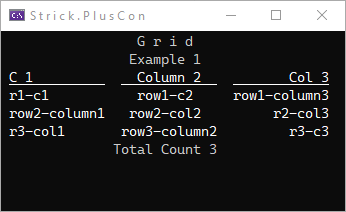
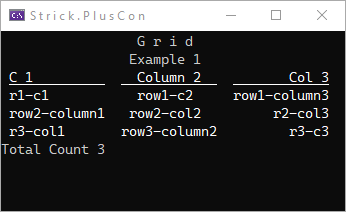
Grid - title, subtitle, footer horizontal alignment

diff --git a/Strick.PlusCon/Models/Grid.cs b/Strick.PlusCon/Models/Grid.cs
@@ -101,12 +101,26 @@ public class Grid
 	#region CHROME
 
 	/// <summary>
-	/// The title of the grid. Centered above the grid rows/columns.
-	/// If a single character string is specified (e.g. "-"), that character will be repeated for the width of the grid. 
-	/// <para>Note: if the Title is wider than the width of all the grid's columns, 
-	/// it will start at the left edge of the grid and flow past the right edge.</para>
+	/// The title of the grid. Shows at the top of the grid -- above the rows/columns. 
+	/// Horizontal alignment of the title's content can be controlled using the <see cref="TitleAlignment"/> property.
+	/// <div id='desc'>
+	/// If null, the line will not be shown. 
+	/// If a single character string is specified (e.g. "-") for the <see cref="StyledText.Text"/> property, 
+	/// that character will be repeated for the width of the grid. 
+	/// To show a blank line, use a single space as the content.
+	/// <para>
+	/// Note: if the content is wider than the width of all the grid's columns, 
+	/// it will start at the left edge of the grid and flow past the right edge, 
+	/// regardless of the horizontal alignment setting.
+	/// </para>
+	/// </div>
 	/// </summary>
 	public StyledText? Title { get; set; }
+
+	/// <summary>
+	/// The horizontal alignment for the grid's <see cref="Title"/>.
+	/// </summary>
+	public HorizontalAlignment TitleAlignment { get; set; } = HorizontalAlignment.Center;
 
 	/// <summary>
 	/// The length of the <see cref="Title"/> property. If <see cref="Title"/> is null or empty, 0 is returned. 
@@ -114,12 +128,16 @@ public class Grid
 	public int TitleLength => Title == null ? 0 : Title.Text.Length;
 
 	/// <summary>
-	/// The subtitle of the grid. Centered at the top of the grid, beneath the <see cref="Title"/> above the grid rows/columns.
-	/// If a single character string is specified (e.g. "-"), that character will be repeated for the width of the grid.
-	/// <para>Note: if the Subtitle is wider than the width of all the grid's columns, 
-	/// it will start at the left edge of the grid and flow past the right edge.</para>
+	/// The subtitle of the grid. Shown at the top of the grid, beneath the <see cref="Title"/>, above the rows/columns.
+	/// Horizontal alignment of the subtitle's content can be controlled using the <see cref="SubtitleAlignment"/> property.
+	/// <inheritdoc cref="Title" path="/summary/div[@id='desc']"/>
 	/// </summary>
 	public StyledText? Subtitle { get; set; }
+
+	/// <summary>
+	/// The horizontal alignment for the grid's <see cref="Subtitle"/>.
+	/// </summary>
+	public HorizontalAlignment SubtitleAlignment { get; set; } = HorizontalAlignment.Center;
 
 	/// <summary>
 	/// The length of the <see cref="Subtitle"/> property. If <see cref="Subtitle"/> is null or empty, 0 is returned. 
@@ -127,12 +145,16 @@ public class Grid
 	public int SubTitleLength => Subtitle == null ? 0 : Subtitle.Text.Length;
 
 	/// <summary>
-	/// The footer of the grid. Centered at the bottom of the grid, beneath the the grid rows/columns.
-	/// If a single character string is specified (e.g. "-"), that character will be repeated for the width of the grid.
-	/// <para>Note: if the Footer is wider than the width of all the grid's columns, 
-	/// it will start at the left edge of the grid and flow past the right edge.</para>
+	/// The footer of the grid. Shown at the bottom of the grid, beneath the the rows/columns.
+	/// Horizontal alignment of the footer's content can be controlled using the <see cref="FooterAlignment"/> property.
+	/// <inheritdoc cref="Title" path="/summary/div[@id='desc']"/>
 	/// </summary>
 	public StyledText? Footer { get; set; }
+
+	/// <summary>
+	/// The horizontal alignment for the grid's <see cref="Footer"/>.
+	/// </summary>
+	public HorizontalAlignment FooterAlignment { get; set; } = HorizontalAlignment.Center;
 
 	/// <summary>
 	/// The length of the <see cref="Footer"/> property. If <see cref="Footer"/> is null or empty, 0 is returned. 
@@ -211,12 +233,12 @@ public class Grid
 		//TITLES
 		if (Title != null)
 		{
-			ShowTitle(Title);
+			ShowTitle(Title, TitleAlignment);
 			MoveToStartOfNextRow(col);
 		}
 		if (Subtitle != null)
 		{
-			ShowTitle(Subtitle);
+			ShowTitle(Subtitle, SubtitleAlignment);
 			MoveToStartOfNextRow(col);
 		}
 
@@ -261,20 +283,29 @@ public class Grid
 		//FOOTER
 		if (Footer != null)
 		{
-			ShowTitle(Footer);
+			ShowTitle(Footer, FooterAlignment);
 			MoveToStartOfNextRow(col);
 		}
 	}
 
-	private void ShowTitle(StyledText? title)
+	private void ShowTitle(StyledText? title, HorizontalAlignment alignment)
 	{
 		if (title == null)
 		{ return; }
 
+		W(RenderTitle(title, alignment));
+	}
+
+	internal string RenderTitle(StyledText title, HorizontalAlignment alignment)
+	{
 		if (title.Text.Length == 1)
-		{ W(title.StyleText(new string(title.Text[0], Width))); }
-		else
-		{ W(title.StyleText(title.Text.Center(Width))); }
+		{ return title.StyleText(new string(title.Text[0], Width)); }
+		else if (title.Text.Length > Width || alignment == HorizontalAlignment.Left)
+		{ return title.StyleText(title.Text.PadRight(Width)); }
+		else if (alignment == HorizontalAlignment.Center)
+		{ return title.StyleText(title.Text.Center(Width)); }
+		else //if (alignment == HorizontalAlignment.Right)
+		{ return title.StyleText(title.Text.PadLeft(Width)); }
 	}
 
 

diff --git a/Strick.PlusCon.Test/GridTests.cs b/Strick.PlusCon.Test/GridTests.cs
@@ -398,8 +398,8 @@ public class GridTests
 	public void ShowColumnHeaders()
 	{
 		Grid g = new Grid();
-		g.ColumnHeaderContentStyle=new TextStyle();
-		g.ColumnHeaderCellStyle=new TextStyle();
+		g.ColumnHeaderContentStyle = new TextStyle();
+		g.ColumnHeaderCellStyle = new TextStyle();
 		var col1 = g.Columns.Add("foo");
 		col1.CellLayout.MarginLeft = 0;
 		col1.CellLayout.MarginRight = 0;
@@ -428,6 +428,42 @@ public class GridTests
 		CheckColumnState(col2, 1, "bar", 2, 2, 2);
 		CheckColHead(col3, 2, "longer", g.ColumnHeaderCellStyle, g.ColumnHeaderContentStyle, col1.CellLayout, "");
 		CheckColumnState(col3, 2, "longer", 2, 2, 2);
+	}
+
+	[TestMethod]
+	public void Chrome()
+	{
+		Grid g = new();
+		g.ColumnHeaderCellStyle = new TextStyle();
+		g.ColumnHeaderContentStyle = new TextStyle();
+		g.Columns.Add("1234567");
+		g.Columns[0].CellLayout.MarginLeft = 0;
+		g.Columns[0].CellLayout.MarginRight = 0;
+		g.AddRow("");
+
+		g.Title = new("foo");
+		CheckTitleRendering(g, g.Title, "foo    ", "  foo  ", "    foo");
+		g.Title.Text = "foobar";
+		CheckTitleRendering(g, g.Title, "foobar ", "foobar ", " foobar");
+		g.Title.Text = "foo bar";
+		CheckTitleRendering(g, g.Title, "foo bar", "foo bar", "foo bar");
+		g.Title.Text = "foo bar baz";
+		CheckTitleRendering(g, g.Title, "foo bar baz", "foo bar baz", "foo bar baz");
+		g.Title.Text = "-";
+		string tfill = "-------";
+		CheckTitleRendering(g, g.Title, tfill, tfill, tfill);
+
+		g.Title.Text = "foo";
+		g.Title.Style.ForeColor = Expectations.red;
+		CheckTitleRendering(g, g.Title, "foo    ", "  foo  ", "    foo", Expectations.ForeColorRed, Expectations.ForeColorReset);
+		g.Title.Text = "foobar";
+		CheckTitleRendering(g, g.Title, "foobar ", "foobar ", " foobar", Expectations.ForeColorRed, Expectations.ForeColorReset);
+		g.Title.Text = "foo bar";
+		CheckTitleRendering(g, g.Title, "foo bar", "foo bar", "foo bar", Expectations.ForeColorRed, Expectations.ForeColorReset);
+		g.Title.Text = "foo bar baz";
+		CheckTitleRendering(g, g.Title, "foo bar baz", "foo bar baz", "foo bar baz", Expectations.ForeColorRed, Expectations.ForeColorReset);
+		g.Title.Text = "-";
+		CheckTitleRendering(g, g.Title, tfill, tfill, tfill, Expectations.ForeColorRed, Expectations.ForeColorReset);
 	}
 
 
@@ -542,5 +578,12 @@ public class GridTests
 			Assert.AreEqual(expectedLayout.PaddingRight, actualLayout.PaddingRight);
 			Assert.AreEqual(expectedLayout.PaddingRightChar, actualLayout.PaddingRightChar);
 		}
+	}
+
+	internal static void CheckTitleRendering(Grid g, StyledText title, string expectedLeft, string expectedCenter, string expectedRight, string pre = "", string post = "")
+	{
+		Assert.AreEqual(pre + expectedLeft + post, g.RenderTitle(title, HorizontalAlignment.Left));
+		Assert.AreEqual(pre + expectedCenter + post, g.RenderTitle(title, HorizontalAlignment.Center));
+		Assert.AreEqual(pre + expectedRight + post, g.RenderTitle(title, HorizontalAlignment.Right));
 	}
 }

diff --git a/Strick.PlusCon.Test/Program.cs b/Strick.PlusCon.Test/Program.cs
@@ -57,6 +57,7 @@ internal class Program
 
 		Menu gridMenu = new PCMenu("Grid Menu");
 		gridMenu.Options.Add(new("Show test grid", 'G', GridTest));
+		gridMenu.Options.Add(new("Show test grid 2", '2', GridTest2));
 
 		Menu mainMenu = new PCMenu("Main Menu");
 
@@ -577,7 +578,14 @@ internal class Program
 	{
 		Grid g = new();
 		g.Title = new("A Sample Grid", Color.White, Color.Turquoise);
+		g.TitleAlignment = HorizontalAlignment.Left;
 		g.Subtitle = new("this one has a really super long sub-title. It's wider than the whole grid.");
+		g.Subtitle.Text = "foo bar baz woo koo boo zoo";
+		g.Subtitle.Style.ForeColor = Color.White;
+		g.Subtitle.Style.BackColor = Color.Pink;
+		g.Subtitle.Style.SetGradientColors(Color.Pink, Color.White, Color.Pink);
+		g.Subtitle.Style.Reverse = true;
+		//g.SubtitleAlignment = HorizontalAlignment.Left;
 		g.CellStyle.BackColor = Color.FromArgb(48, 48, 48);
 		g.CellContentStyle = g.CellStyle;
 		//g.CellContentStyle.BackColor = Color.FromArgb(48, 48, 48);
@@ -643,6 +651,7 @@ internal class Program
 		g.AddRow("r6-c1", DateTime.Now, 1);
 
 		g.Footer = new($"A total of {g.RowCount} fun items", Color.White, Color.Purple);
+		g.FooterAlignment = HorizontalAlignment.Right;
 
 		GridColumn gc = g.Columns.Add("foo bar");
 		g.ColumnHeaderContentStyle.SetGradientColors(Color.Red, Color.Pink);
@@ -659,6 +668,50 @@ internal class Program
 		g.Show();
 		RK();
 	}
+
+	private static void GridTest2()
+	{
+		Grid g = new();
+		g.ColumnHeaderCellStyle = new();
+		g.ColumnHeaderContentStyle = new();
+
+		g.Columns.Add("1234567");
+		g.Columns[0].CellLayout.MarginLeft = 0;
+		g.Columns[0].CellLayout.MarginRight = 0;
+		g.AddRow("*--*--*");
+		CLS();
+		g.Show();
+		RK();
+
+		g.Title = new("foo");
+		g.Subtitle = new("bar");
+		g.Footer = new("baz");
+		CLS();
+		g.Show();
+		RK();
+
+		g.TitleAlignment = HorizontalAlignment.Left;
+		g.SubtitleAlignment = HorizontalAlignment.Left;
+		g.FooterAlignment = HorizontalAlignment.Left;
+		CLS();
+		g.Show();
+		RK();
+
+		g.TitleAlignment = HorizontalAlignment.Center;
+		g.SubtitleAlignment = HorizontalAlignment.Center;
+		g.FooterAlignment = HorizontalAlignment.Center;
+		CLS();
+		g.Show();
+		RK();
+
+		g.TitleAlignment = HorizontalAlignment.Right;
+		g.SubtitleAlignment = HorizontalAlignment.Right;
+		g.FooterAlignment = HorizontalAlignment.Right;
+		CLS();
+		g.Show();
+		RK();
+	}
+
 
 	class SpecialChar
 	{

diff --git a/Strick.PlusCon.Test/Models/Examples/GridExamples.cs b/Strick.PlusCon.Test/Models/Examples/GridExamples.cs
@@ -40,6 +40,7 @@ internal static class GridExamples
 		g.AddRow("r3-col1", "row3-column2", "r3-c3");
 
 		g.Footer = new($"Total Count {g.RowCount}");
+		g.FooterAlignment = HorizontalAlignment.Left;
 		g.Show();
 		RK();
 	}
@@ -77,7 +78,8 @@ internal static class GridExamples
 
 		g.AddRow("r3-col1", "row3-col2", "r3-c3");
 
-		g.Footer = new("Total Count 3");
+		g.Footer = new("Total Count 3", Color.White, Color.SkyBlue, Color.White);
+		g.Footer.Style.Reverse = true;
 		g.Show();
 		RK();
 	}

diff --git a/docs/grid.md b/docs/grid.md
@@ -4,7 +4,7 @@
 A `Grid` consists of rows and columns of data that is displayed in a tabular format. 
 Each Column is sized automatically to fit its widest content. 
 In addition to the rows and columns, grids can also have a `Title`, `Subtitle` and `Footer`. 
-The titles are centered above the rows/columns, the footer is centered beneath the rows/columns. 
+The titles are shown above the rows/columns, the footer is beneath beneath the rows/columns. 
 
 The appearance and layout of the grid's columns, rows, and cells can be customized through the 
 use of properties available at the various levels. 
@@ -23,7 +23,9 @@ controlled via the `ShowColumnHeaders` property.
 
 The `Title`, `Subtitle` and `Footer` properties are `StyledText` objects. 
 See the [doc for the `TextStyle` and `StyledText` classes](textStyle.md#styledtext-class)
-for information on how to apply styling to these grid elements.
+for information on how to apply styling to these grid elements. Additionally, there are 
+alignment properties for each (`TitleAlignment`, `SubtitleAlignment`, `FooterAlignment`) 
+that control the horizontal alignment of the content.
 
 *Note: Calling the `Show` method if the grid does not have at least one column and one row will 
 result in an exception being thrown. After all, it is somewhat pointless to display a grid 
@@ -171,7 +173,9 @@ g.AddRow("row2-column1", "row2-col2", "r2-col3");
 g.AddRow("r3-col1", "row3-column2", "r3-c3");
 
 g.Footer = new($"Total Count {g.RowCount}");
+g.FooterAlignment = HorizontalAlignment.Left;
 g.Show();
+RK();
 ```
 ![Example - Grid 1](https://raw.githubusercontent.com/StrickTechnologies/Strick.PlusCon/master/SampleImages/ex_grid_1.png)
 
@@ -208,7 +212,9 @@ cell.CellStyle = new(Color.White, Color.SlateGray);
 
 g.AddRow("r3-col1", "row3-col2", "r3-c3");
 
-g.Footer = new("Total Count 3");
+g.Footer = new("Total Count 3", Color.White, Color.SkyBlue, Color.White);
+g.Footer.Style.Reverse = true;
 g.Show();
+RK();
 ```
 ![Example - Grid 2](https://raw.githubusercontent.com/StrickTechnologies/Strick.PlusCon/master/SampleImages/ex_grid_2.png)
